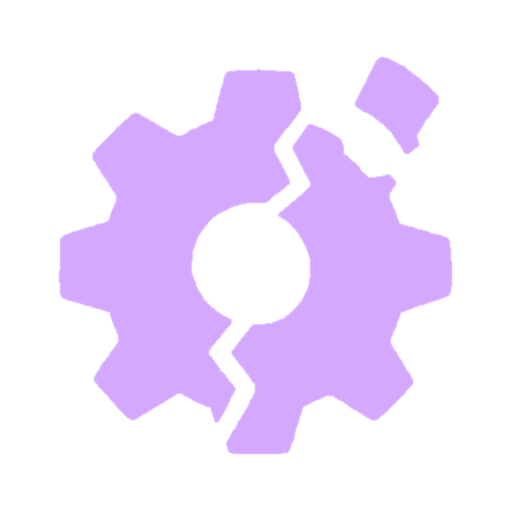
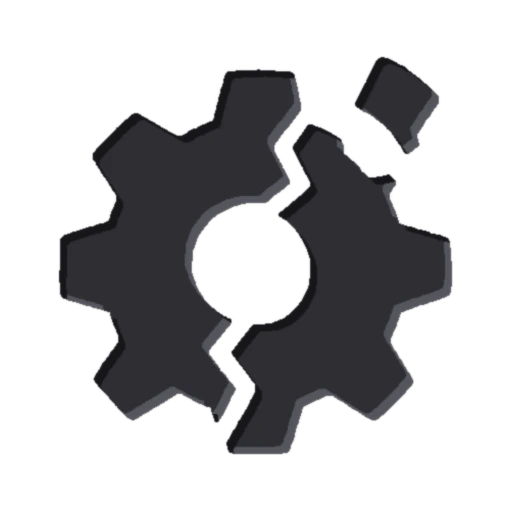
Engrave the Gear and Stress 1 faces in dark grey

diff --git a/foundry/design/asset-inventory.md b/foundry/design/asset-inventory.md
@@ -23,11 +23,11 @@ Locked by the owner. The shipped set is `foundry/art-src/style-lock/dice/final/`
 
 One `dice3d.addDicePreset({type, labels, bumpMaps, colorset, system}, 'd6')` per die kind, each naming its own colorset (`dice3d.addColorset`) and listing six label files and six bump maps from `dice/final/<type>/`. Textures are registered with `dice3d.addTexture(id, {name, composite: 'multiply', source, bump})`. Blank faces use an empty label and a flat bump (`d6-blank`), so every array stays full. Type ids are proposals and must match the system's DiceTerm denominations. Sources: `foundry/art-src/style-lock/dice/make_dice.py` (marks, bumps, baked kind labels) and `make_textures.py` (seamless procedural textures).
 
-**Per-face colour mechanism.** Dice So Nice draws an image label with the colorset's `labelComposite`: `source-over` draws the image as is, `tint` recolours every image label on the die with the one `foreground` colour. Per-face colour overrides exist only for Dice Library dice, not for presets a system registers. So the ink is baked into each kind's label PNGs (`make_dice.py`, `KIND_FACES`), every colorset keeps `labelComposite: 'source-over'`, and `foreground` only matters for text fallbacks. On Gear and Stress dice the 1 face is baked in signal-flare violet `#D4A8FF` (the Survey Corps emergency flare), so a 1 never looks like a 6. It scores 3.4:1 on gunmetal `#56605F` (6.8:1 on the darker rendered metal) and 4.4:1 on wax red `#8B2A21`, with a CIEDE2000 difference of 50 from brass and 39 from parchment. Red on red is avoided.
+**Per-face colour mechanism.** Dice So Nice draws an image label with the colorset's `labelComposite`: `source-over` draws the image as is, `tint` recolours every image label on the die with the one `foreground` colour. Per-face colour overrides exist only for Dice Library dice, not for presets a system registers. So the ink is baked into each kind's label PNGs (`make_dice.py`, `KIND_FACES`), every colorset keeps `labelComposite: 'source-over'`, and `foreground` only matters for text fallbacks. On Gear and Stress dice the 1 face is baked in dark grey `#2E2E33`, shaded as a cut groove (top-left wall `#161619`, bottom-right wall `#55555E`), with a steep-walled bump so Dice So Nice renders it as a deep engraving; it reads as a flaw, never as a 6. (It replaced the earlier signal-flare violet `#D4A8FF` after the first playtest.)
 
 | Die kind | Preset type | Status | Face map | Locked source (in `foundry/art-src/style-lock/`) | Colorset | Body (background) | DSN material | Texture | Label ink (baked) |
 | --- | --- | --- | --- | --- | --- | --- | --- | --- | --- |
 | Base | `db` | locked | 6 Wings emblem; 1 to 5 blank | 6: `originals/dice-face-6-emblem.png` → `dice/d6-face-6`; blank: `dice/d6-blank` | `wof-bone` | `#EDE6D2` | `plastic` | `wof-bone` (`final/textures/bone-*`) | 6: `#29241D` iron-gall ink |
-| Gear | `dg` | locked | 6 Wings emblem; 1 cracked cog; 2 to 5 blank | 6: as base; 1: `originals/die-mark-gear-1-cog.png` (first cog draw) → `dice/marks/gear-1-b` | `wof-gunmetal` | `#56605F` | `metal` | none | 6: `#E6C57C` brass; 1: `#D4A8FF` violet |
-| Stress | `ds` | locked | 6 Wings emblem; 1 fracture; 2 to 5 blank | 6: as base; 1: `originals/die-mark-stress-1-fracture.png` (first fracture draw) → `dice/marks/stress-1-b` | `wof-wax` | `#8B2A21` | `pristine` (matte base under a hard clear coat: lacquered wax) | none | 6: `#F1E4C8` parchment; 1: `#D4A8FF` violet |
+| Gear | `dg` | locked | 6 Wings emblem; 1 cracked cog; 2 to 5 blank | 6: as base; 1: `originals/die-mark-gear-1-cog.png` (first cog draw) → `dice/marks/gear-1-b` | `wof-gunmetal` | `#56605F` | `metal` | none | 6: `#E6C57C` brass; 1: `#2E2E33` grooved grey |
+| Stress | `ds` | locked | 6 Wings emblem; 1 fracture; 2 to 5 blank | 6: as base; 1: `originals/die-mark-stress-1-fracture.png` (first fracture draw) → `dice/marks/stress-1-b` | `wof-wax` | `#8B2A21` | `pristine` (matte base under a hard clear coat: lacquered wax) | none | 6: `#F1E4C8` parchment; 1: `#2E2E33` grooved grey |
 | Titan | `dt` | locked | 5 and 6 fang ring; 1 to 4 blank | 5, 6: `originals/die-mark-titan-bite-2a.png` (bite B1) → `dice/titan/titan-mark-b2a` | `wof-flesh` | `#D9B7A0` | `pristine` (rough base reads as skin, clear coat as a wet sheen; DSN has no subsurface material, so the translucency is painted into the texture) | `wof-flesh` (`final/textures/flesh-*`): pale mottled skin, cool bloodless patches, faint blue-violet veins | 5 and 6: `#3A0F0C` dark oxblood |
